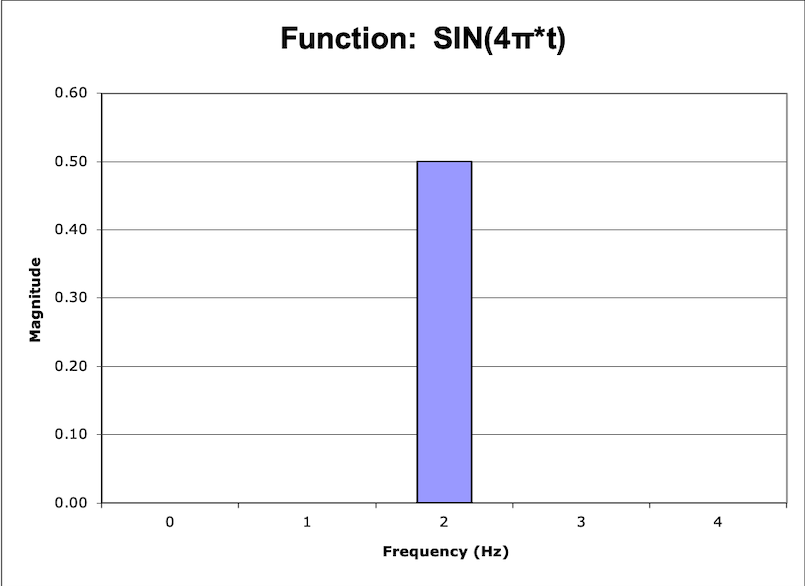
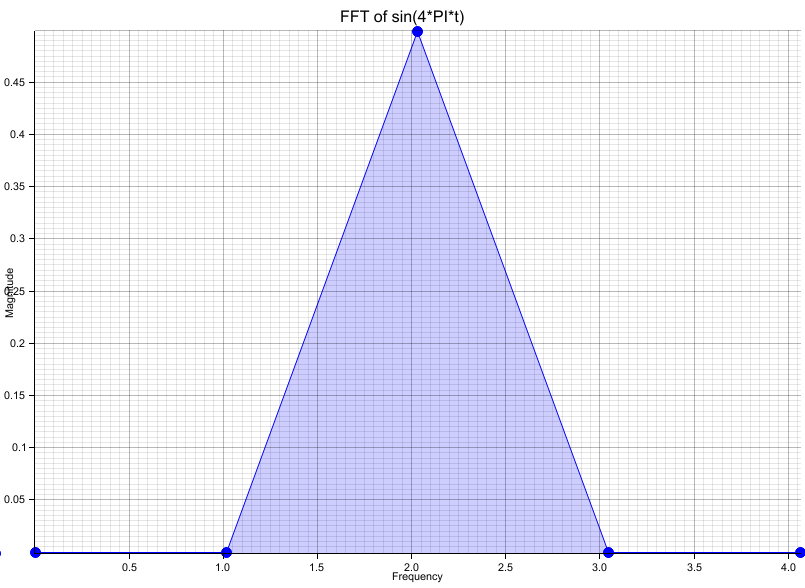
Implemented FFT plotting functionality

diff --git a/src/fft.rs b/src/fft.rs
@@ -123,38 +123,49 @@ fn unscramble(x: &mut Vec<f64>, y: &mut Vec<f64>) {
 
 use plotters::prelude::*;
 
-pub fn plot(title: &str, filename: &str) -> Result<(), Box<dyn std::error::Error>> {
-    let root =
-        BitMapBackend::new(filename, (640, 480)).into_drawing_area();
-    // "plotters-doc-data/histogram.png"
+pub fn plot(freq: Vec<f64>, mag: Vec<f64>, title: &str, filename: &str) -> Result<(), Box<dyn std::error::Error>> {
+    let root = BitMapBackend::new(filename, (805, 588)).into_drawing_area();
 
     root.fill(&WHITE)?;
 
-    let mut chart = ChartBuilder::on(&root)
-        .x_label_area_size(35)
-        .y_label_area_size(40)
-        .margin(5)
-        .caption(title, ("sans-serif", 50))
-        .build_cartesian_2d((0u32..10u32).into_segmented(), 0u32..10u32)?;
+    // Get axes limits and mutable Y-axis data for applying to draw_series() of plot
+    let mut mutable_mag = mag.clone();
+    let mut sorted_mag = mag.clone();
+    sorted_mag.sort_by(|a, b| a.partial_cmp(b).unwrap());
+    let x_0 = freq[0] as f32;
+    let x_n = *freq.last().unwrap() as f32;
+    let y_0: f32 = 0.0;
+    let y_n: f32 = *sorted_mag.last().unwrap() as f32;
 
+    // Define chart builder axes
+    let mut chart = ChartBuilder::on(&root)
+        .caption(title, ("sans-serif", 18).into_font())
+        .margin(5)
+        .x_label_area_size(30)
+        .y_label_area_size(30)
+        .build_cartesian_2d(x_0..x_n, y_0..y_n)?;
+
+    // Line
+    chart.draw_series(
+        AreaSeries::new(
+            freq.iter().zip(mutable_mag.iter_mut()).map(|(x, y)| (*x as f32, *y as f32)),
+            0.0,
+            &BLUE.mix(0.2),
+        ).border_style(&BLUE),
+    )?;
+
+    // Markers
+    chart.draw_series(
+        freq.iter().zip(mutable_mag.iter_mut()).map(|(x, y)| Circle::new((*x as f32, *y as f32), 5, BLUE.filled())),
+    )?;
+
+    // Draw labels and mesh
     chart
         .configure_mesh()
-        .disable_x_mesh()
-        .bold_line_style(&WHITE.mix(0.3))
-        .y_desc("Value")
-        .x_desc("Time")
-        .axis_desc_style(("sans-serif", 15))
+        .y_desc("Magnitude")
+        .x_desc("Frequency")
         .draw()?;
-
-    let data = [
-        0u32, 1, 1, 1, 4, 2, 5, 7, 8, 6, 4, 2, 1, 8, 3, 3, 3, 4, 4, 3, 3, 3,
-    ];
-
-    chart.draw_series(
-        Histogram::vertical(&chart)
-            .style(RED.mix(0.5).filled())
-            .data(data.iter().map(|x: &u32| (*x, 1))),
-    )?;
+    // Add .disable_x_mesh() to disable mesh in X-axis (vice versa for Y)
 
     Ok(())
 }

diff --git a/src/main.rs b/src/main.rs
@@ -44,17 +44,28 @@ fn main() {
     for i in 0..NUM_FREQ_2_SHOW {
         debug!("freq = {}, mag = {}", res.0[i], res.1[i]);
     }
-    _plot_res = fft::plot("Test Plot", "debug.png");
+    _plot_res = fft::plot(res.0[..NUM_FREQ_2_SHOW].to_vec(),
+                          res.1[..NUM_FREQ_2_SHOW].to_vec(),
+                          "FFT of sin(4*PI*t)",
+                          "img/sin4pi.png");
 
     info!("FFT of Cosine Function");
     res = fft::fft(cos_fn, sampling_freq);
     for i in 0..NUM_FREQ_2_SHOW {
         debug!("freq = {}, mag = {}", res.0[i], res.1[i]);
     }
+    _plot_res = fft::plot(res.0[..NUM_FREQ_2_SHOW].to_vec(),
+                          res.1[..NUM_FREQ_2_SHOW].to_vec(),
+                          "FFT of cos(2*PI*t)",
+                          "img/cos2pi.png");
 
     info!("FFT of Step Function");
     res = fft::fft(step_fn, sampling_freq);
     for i in 0..NUM_FREQ_2_SHOW {
         debug!("freq = {}, mag = {}", res.0[i], res.1[i]);
     }
+    _plot_res = fft::plot(res.0[..NUM_FREQ_2_SHOW].to_vec(),
+                          res.1[..NUM_FREQ_2_SHOW].to_vec(),
+                          "FFT of Step Function",
+                          "img/step.png");
 }

diff --git a/README.md b/README.md
@@ -41,10 +41,22 @@ For the sine function, the angular frequency is 4 * PI, so the frequency = 2 (i.
 Magnitude = sqrt( real^2 + imag^2 )
 
 ### Result images
-Below are examples of images associated to unit test functions.
+Below are examples of images associated to unit test functions. Reference images are from a project I did in 2013 in Fortran with plotting in Excel.
 
+#### Step Function
+Fortran/Excel (reference)
+![Step Function](./img/reference_step.png)
+Rust
 ![Step Function](./img/step.png)
 
+#### Cos(2 * PI * t)
+Fortran/Excel (reference)
+![Cos(2 * PI * t)](./img/reference_cos2pi.png)
+Rust
 ![Cos(2 * PI * t)](./img/cos2pi.png)
 
+#### Sin(4 * PI * t)
+Fortran/Excel (reference)
+![Sin(4 * PI * t)](./img/reference_sin4pi.png)
+Rust
 ![Sin(4 * PI * t)](./img/sin4pi.png)
